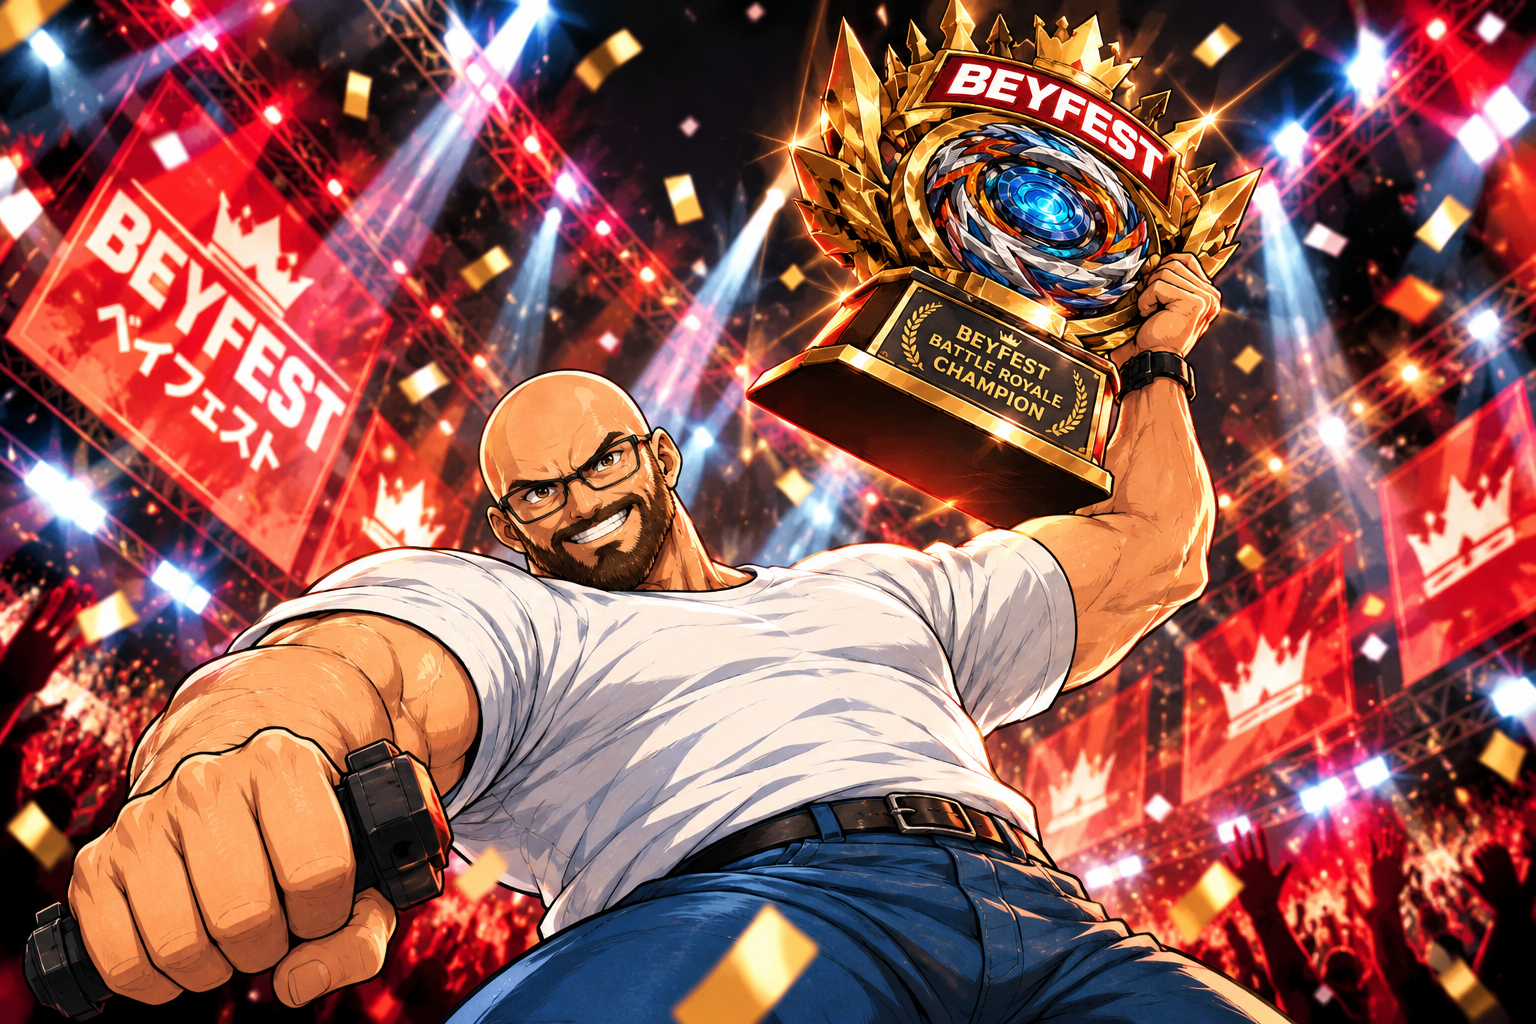
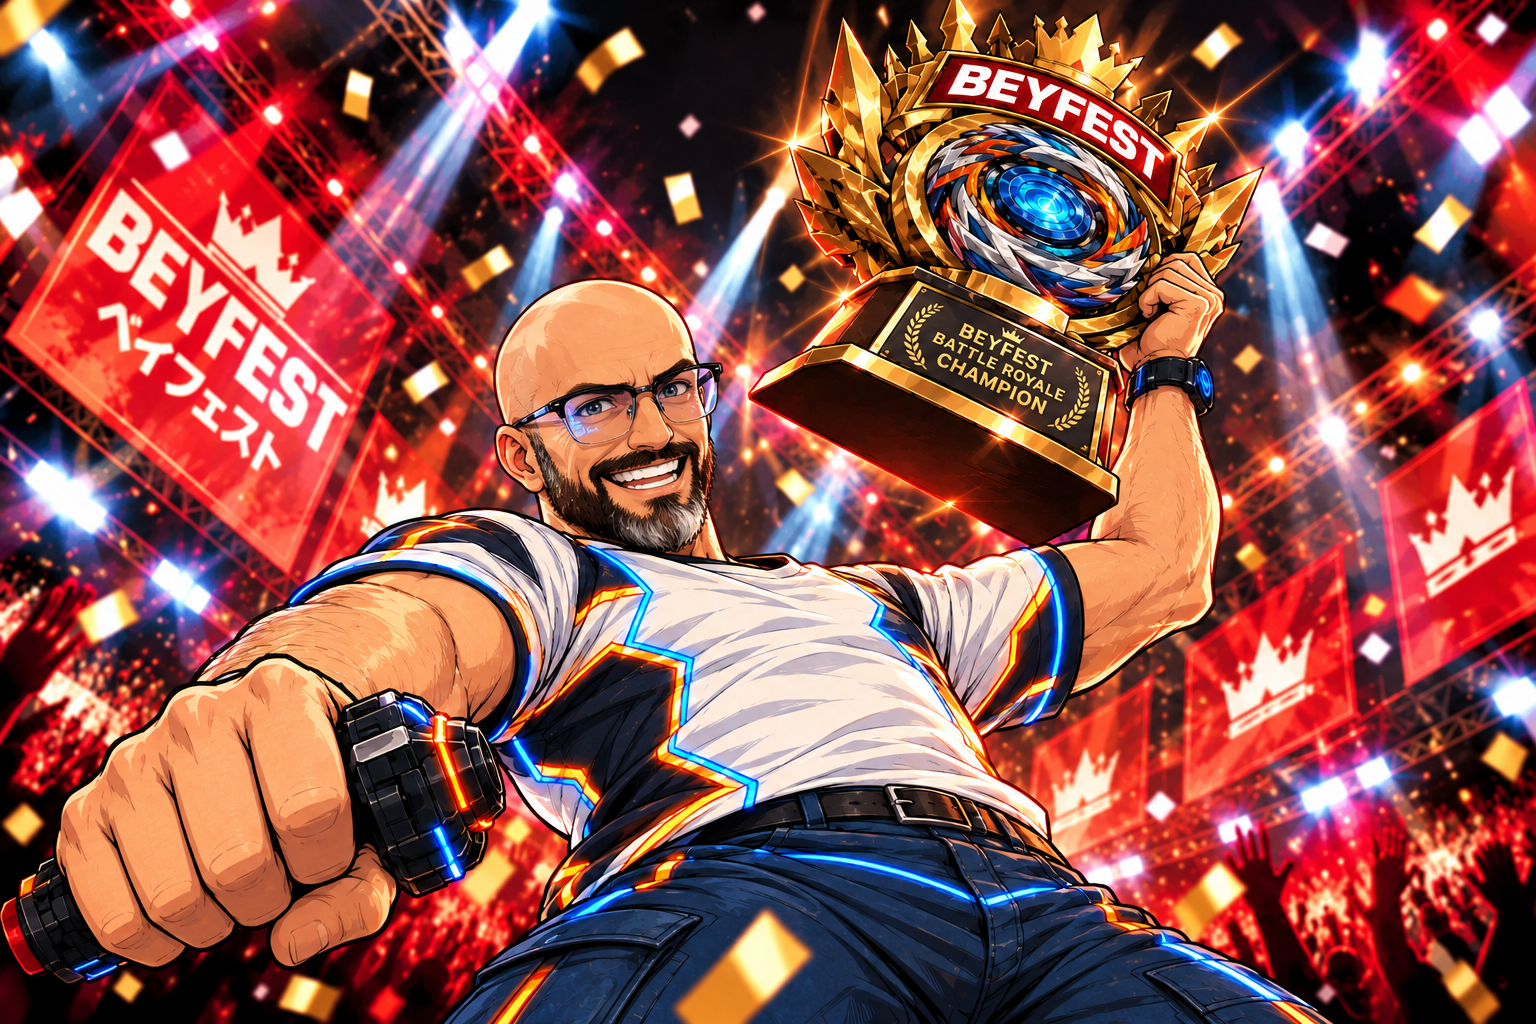
new Buzzsaw victory and royale victory images to match the new design

diff --git a/fighter-art/prompts/buzzsaw.md b/fighter-art/prompts/buzzsaw.md
@@ -39,3 +39,20 @@ The user picked the backflip.
 
 His face is upside down, so screens that crop around the face point (royale draw
 wheel, qualified screen, phone card) show it inverted. The user approved it anyway.
+
+## Victory images (2026-10-28): approved
+
+The same recipe as the others (scene template + approved cut-out + Pugilist head
+close-up), plus a FOURTH attachment: his front-facing photo. His action image is
+upside down, so the photo gives ChatGPT a right-way-up face for the likeness. The
+prompt named each image by what it shows ("THE PHOTO… for LIKENESS", "THE UPSIDE-DOWN
+CUT-OUT… his outfit and glasses"). Both came out right first time, with the grey in
+the beard and the cyber glasses.
+
+- The royale template has the launcher fist toward the camera; that layout is kept,
+  since the one-lunge rule is for action images only.
+- The arms stayed a bit muscular from the templates, though slimmer than before.
+
+**Tip for other fighters:** when the approved action image hides or distorts the face
+(upside down, turned away, covered), add a photo as the likeness reference for the
+victory images.
